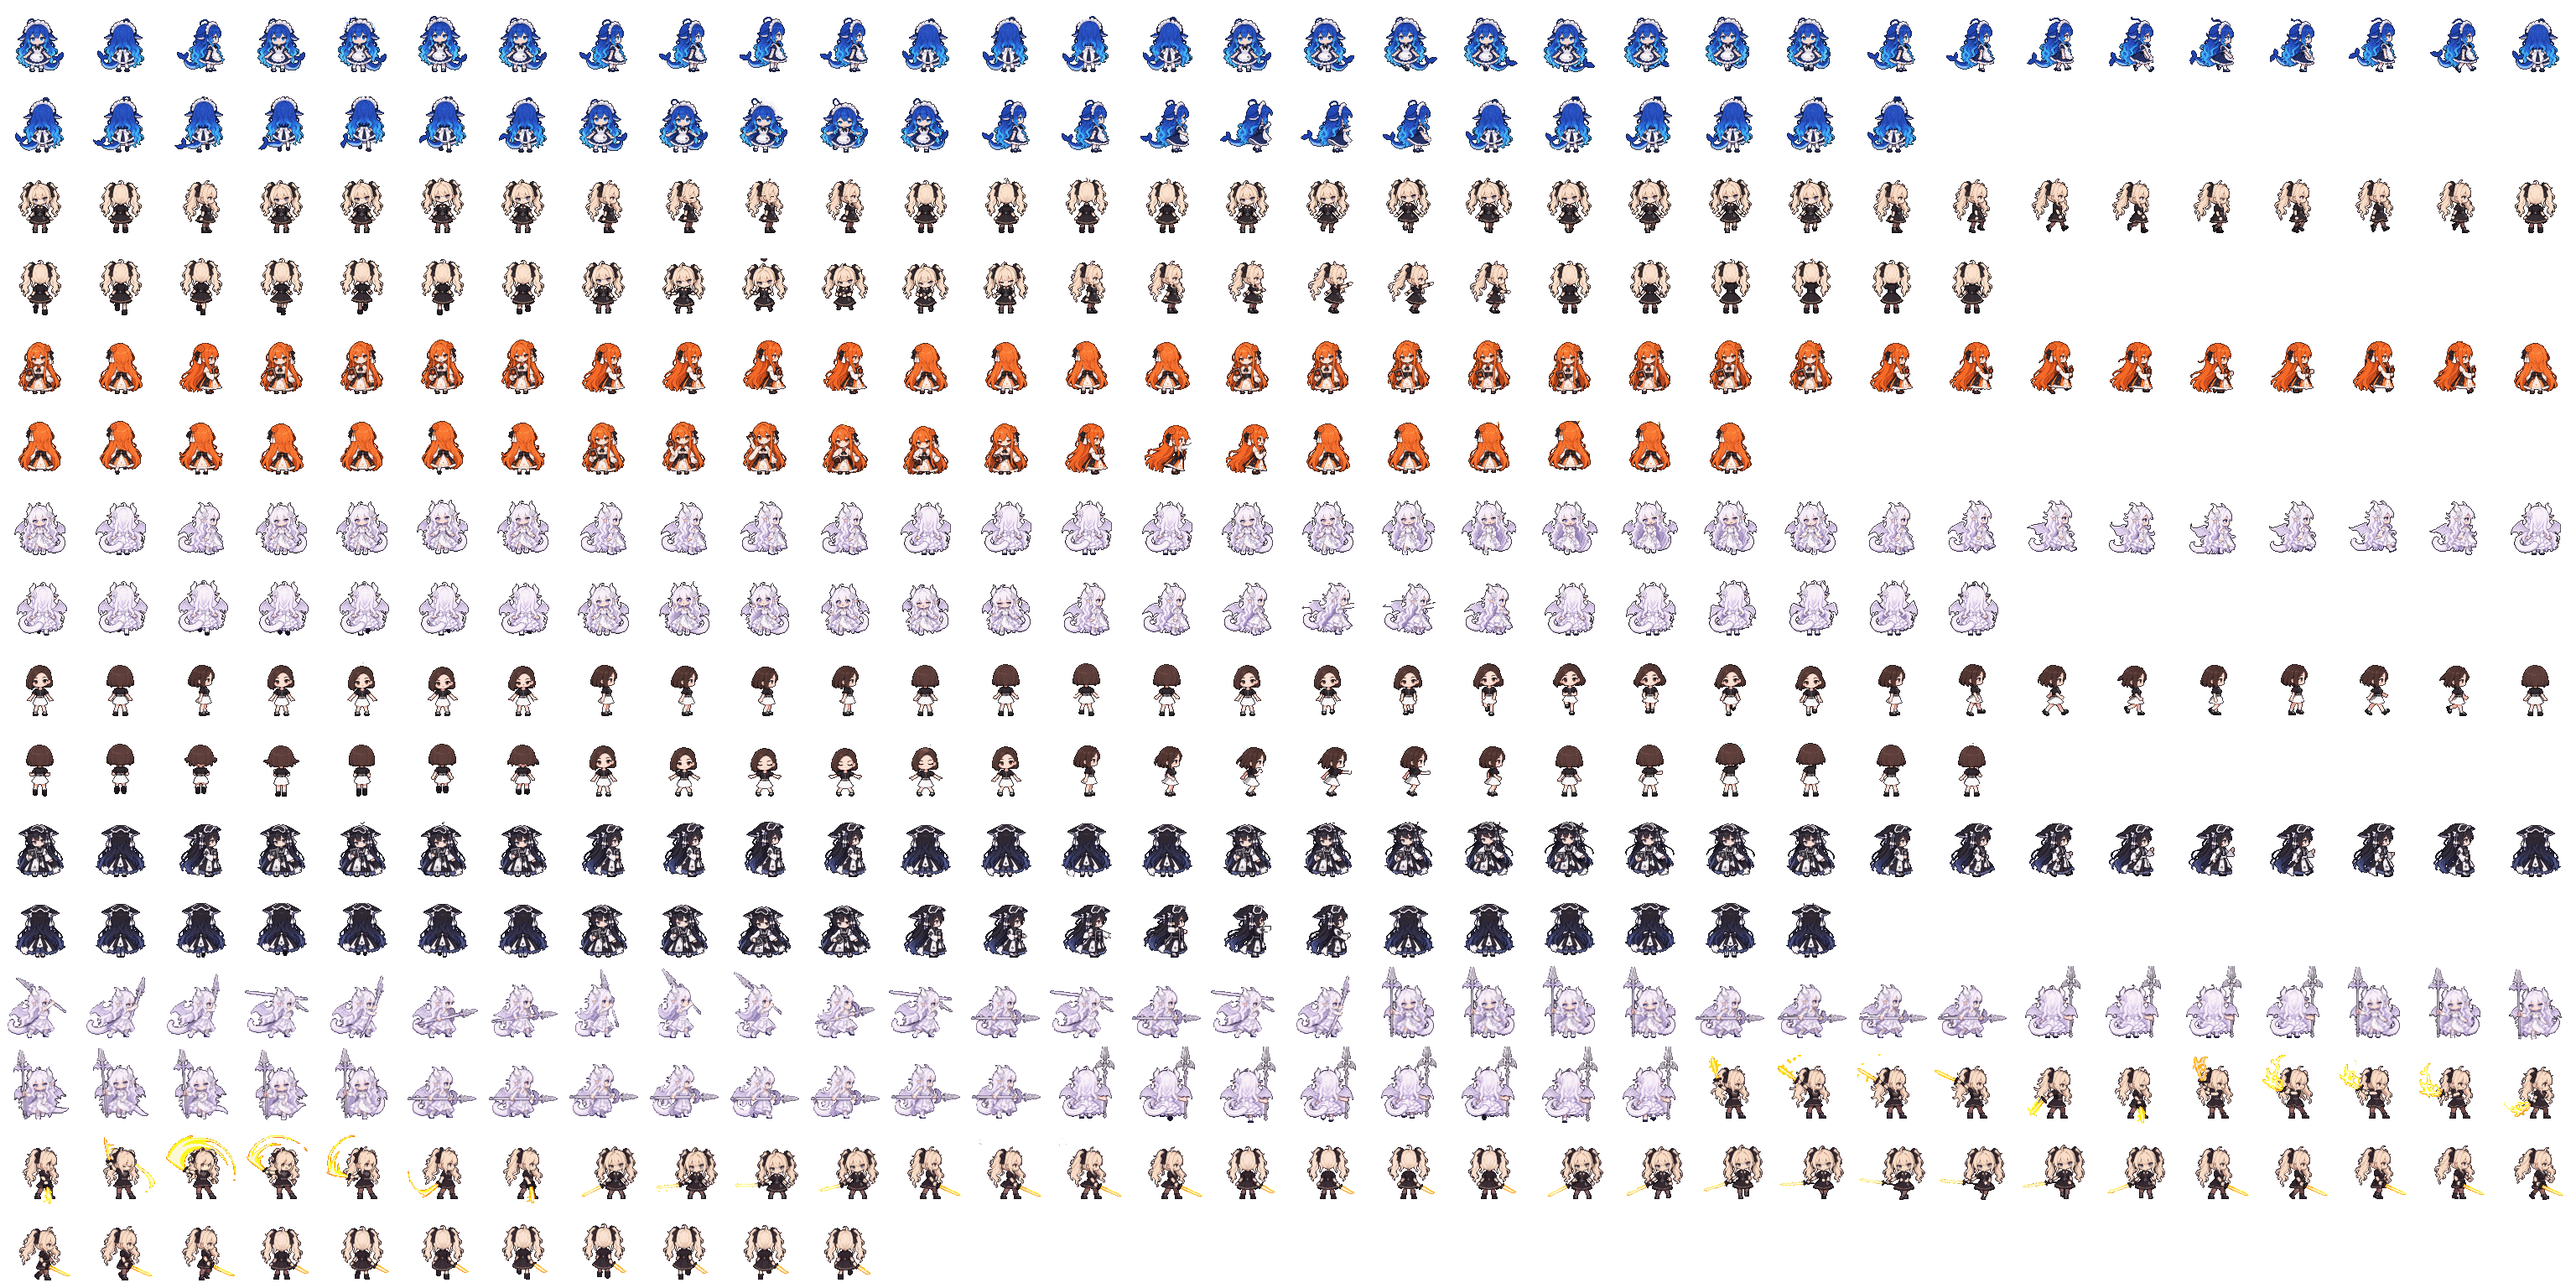
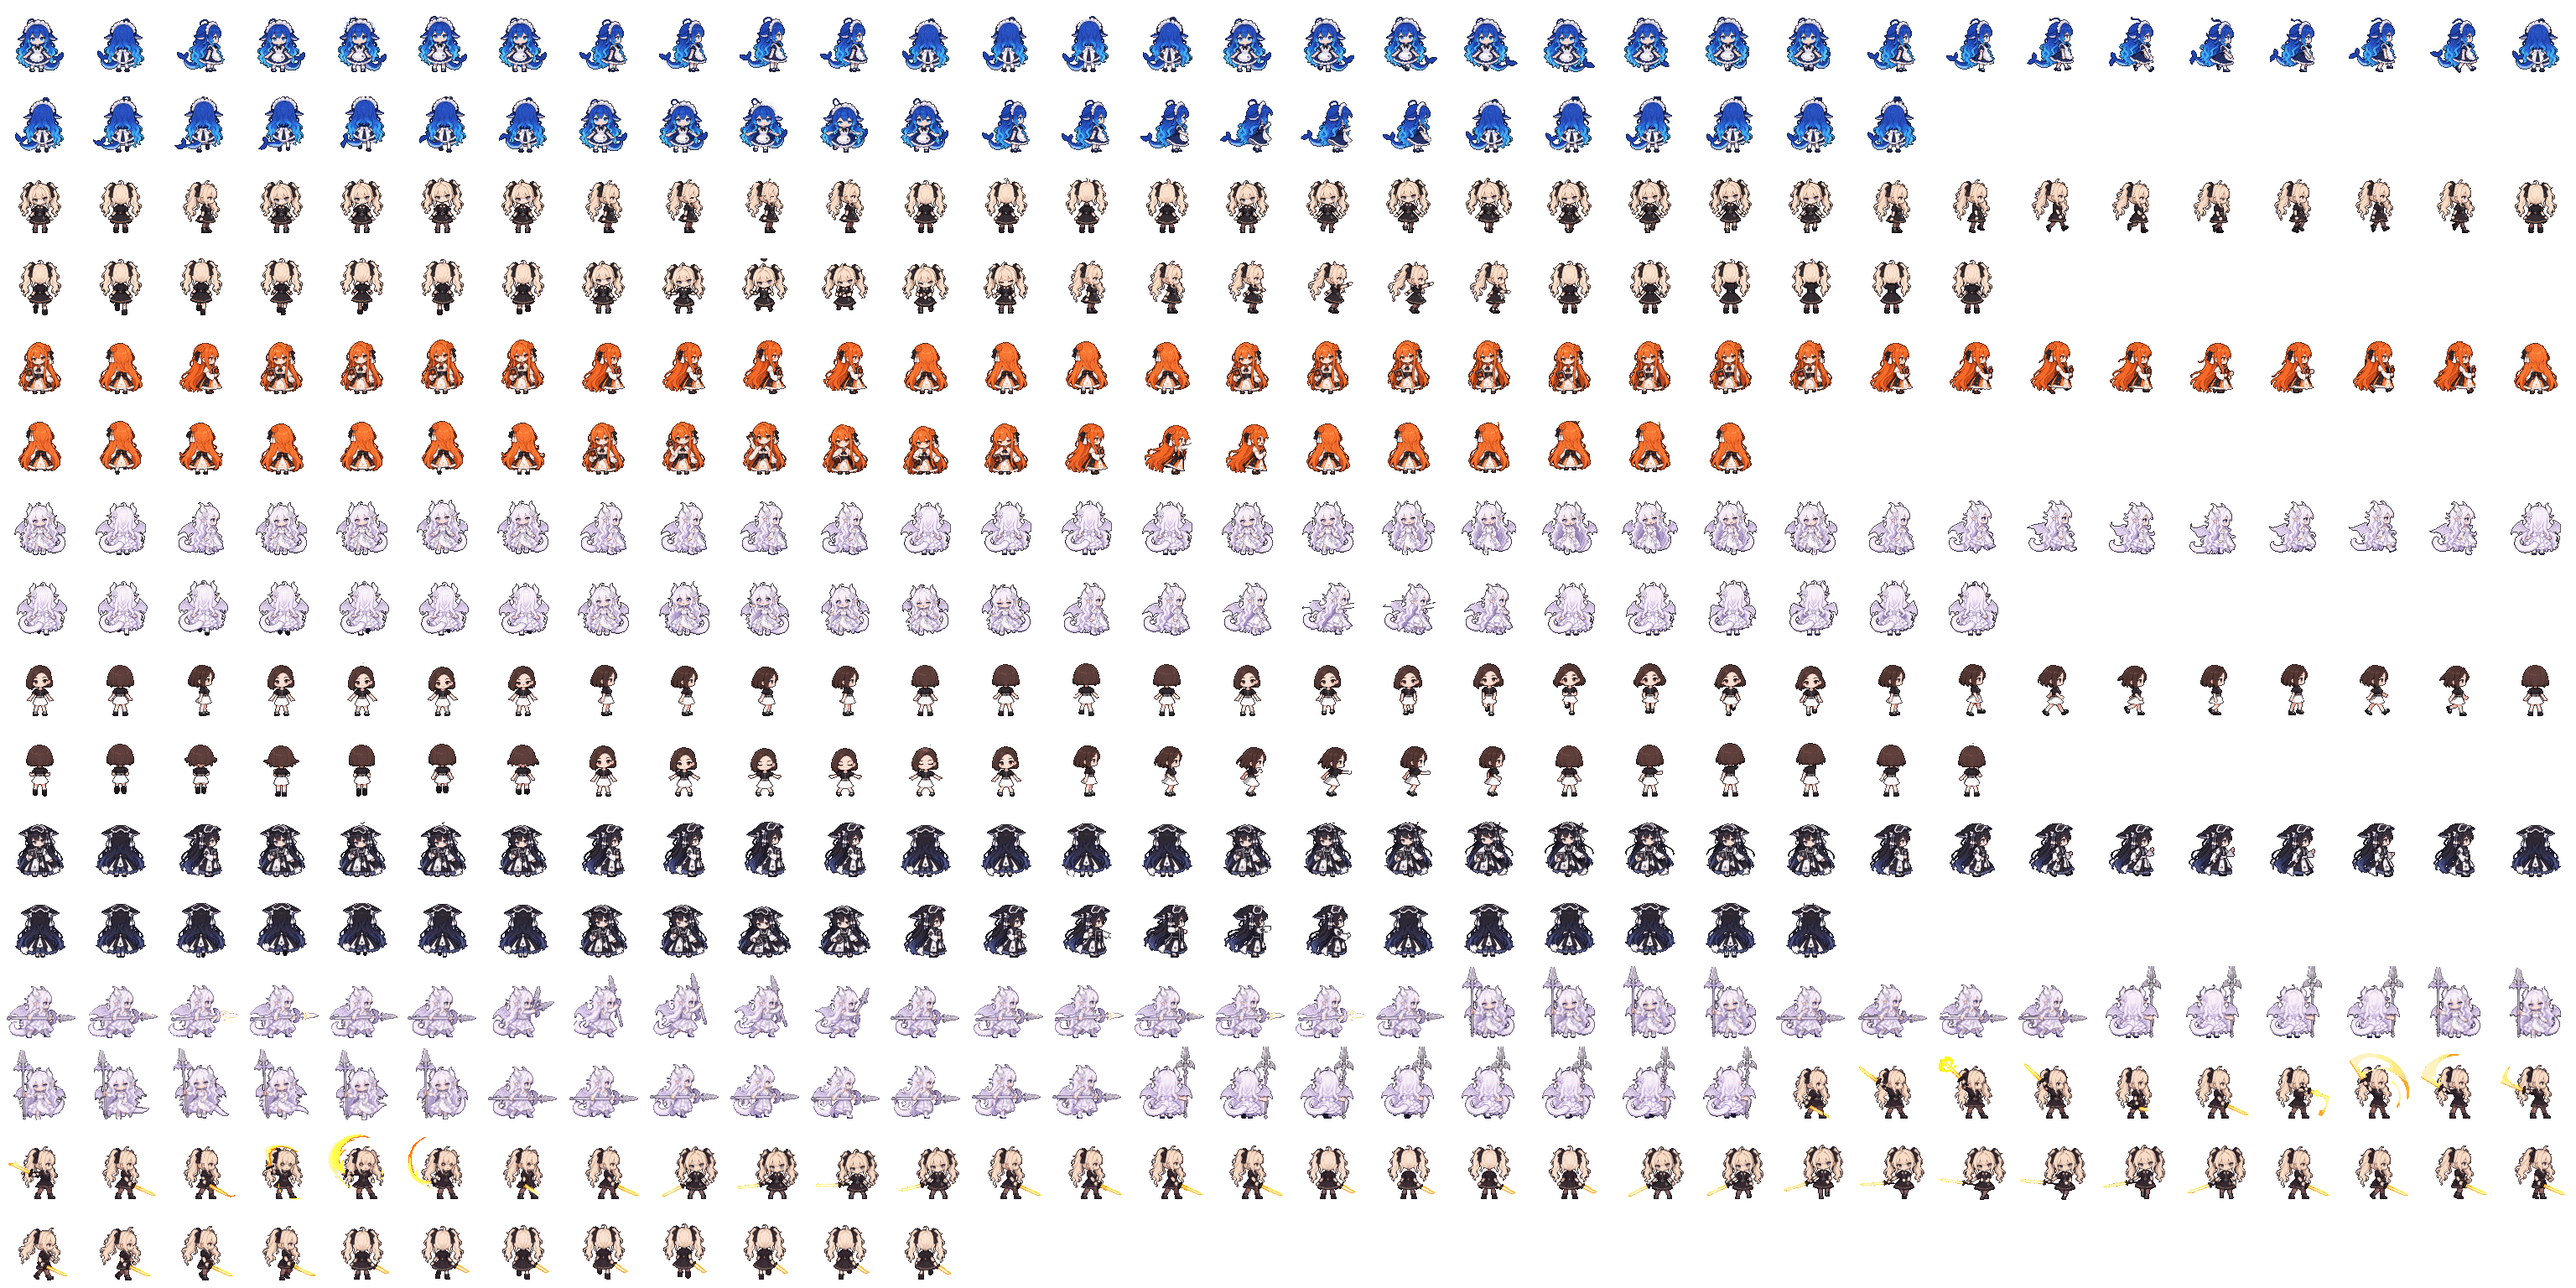
近战动画第三版：侧面三段连击逐帧质检后重抽定稿；持武器移动补齐；格洛克虚化图标
- 新增 tools/pixellab/melee_qa.py：每帧检查碎块、杂色、脚底、体量、武器在不在、帧间跳变，不通过换 seed 重抽
- 吉普缇：突刺改为枪身水平前刺（seed 89），横扫为上挑回扫（seed 53），连戳由前刺帧重排；背面跑步重抽（脚底稳定）
- 格洛克：斜斩（seed 67）、上挑斩（seed 103）、回旋斩（seed 41）；侧面待机重抽去掉杂点
- melee_swings.py 清理阈值提高到 30px，去掉脱离的拖尾碎片；格洛克小技能图标换成虚化穿墙

Claude-Session: https://claude.ai/code/session_01RfUcQPqX1PECm3kqWuT5kH

Changed region(s): [[0.0, 0.75, 1.0, 1.0], [0.1875, 0.9688, 0.2812, 1.0]]

diff --git a/tools/pixellab/melee_qa.py b/tools/pixellab/melee_qa.py
@@ -1,0 +1,76 @@
+# Frame QA for PixelLab melee clips (used before melee_swings.py; re-roll a seed until its clip passes): consistency with the weapon-holding ready pose.
+# usage: melee_qa.py [--base=BASE_VIEW.png] READY.png FRAME0.png FRAME1.png ...  -> per-frame metrics + PASS/FAIL with reasons
+# checks (per frame, after the same clean-up the atlas tool applies):
+#   specks   floating components < 30 px that are not the body/weapon (stray fragments)
+#   foreign  opaque pixels far (ΔE>20) from the ready pose's colours (stray colours / smears)
+#   feet     lowest body row vs the ready pose (±3 px)
+#   mass     opaque pixel count vs the ready pose (0.6–1.6)
+#   weapon   weapon-colour pixels (colours in the ready pose that the base sprite lacks) ≥ 35 % of the ready pose's
+#   jump     mask IoU with the previous frame ≥ 0.35 (no teleports / pops)
+import sys, json
+import numpy as np
+from PIL import Image
+from scipy import ndimage
+from skimage import color
+
+sys.path.insert(0, __import__('os').path.dirname(__import__('os').path.abspath(__file__)))
+from melee_swings import palette, clean
+
+
+def lab(px):
+    return color.rgb2lab(px[None] / 255)[0]
+
+
+def analyse(ready_path, frames, base_path=None):
+    ready = Image.open(ready_path).convert('RGBA')
+    pal_rgb, pal_lab = palette(ready)
+    ra = np.array(ready); rm = ra[..., 3] > 127
+    base_lab = palette(Image.open(base_path))[1] if base_path else None
+    # weapon colours: ready-pose colours not near any base-sprite colour
+    if base_lab is not None:
+        d = ((pal_lab[:, None] - base_lab[None]) ** 2).sum(-1).min(1)
+        wpn = pal_lab[d > 15 ** 2]
+    else:
+        wpn = pal_lab[:0]
+
+    def wcount(a, m):
+        if not len(wpn): return 0
+        L = lab(a[..., :3][m].astype(float))
+        return int((((L[:, None] - wpn[None]) ** 2).sum(-1).min(1) < 8 ** 2).sum())
+
+    # weapon by shape too (a white spear shares her colours): opaque pixels outside her dilated base silhouette
+    body = ndimage.binary_dilation(np.array(Image.open(base_path).convert('RGBA'))[..., 3] > 127, iterations=3) if base_path else np.zeros_like(rm)
+    def ocount(m): return int((m & ~body).sum())
+    r_mass, r_feet, r_w, r_o = rm.sum(), np.where(rm.any(1))[0].max(), wcount(ra, rm), ocount(rm)
+    out, prev = [], None
+    for f in frames:
+        im = clean(Image.open(f), pal_rgb, pal_lab); a = np.array(im); m = a[..., 3] > 127
+        labm, n = ndimage.label(m)
+        sizes = ndimage.sum(m, labm, range(1, n + 1)) if n else []
+        big = max(sizes) if n else 0
+        specks = int(sum(1 for s in sizes if s < 30 and s < big))
+        L = lab(a[..., :3][m].astype(float))
+        foreign = int((((L[:, None] - pal_lab[None]) ** 2).sum(-1).min(1) > 20 ** 2).sum()) if m.any() else 0
+        feet = int(np.where(m.any(1))[0].max()) if m.any() else -1
+        mass = m.sum() / max(1, r_mass)
+        w = max(wcount(a, m) / max(1, r_w) if r_w else 0, ocount(m) / max(1, r_o) if r_o else 0)
+        iou = (m & prev).sum() / max(1, (m | prev).sum()) if prev is not None else 1
+        why = []
+        if specks > 0: why.append(f'specks {specks}')
+        if foreign > 40: why.append(f'foreign {foreign}')
+        if abs(feet - r_feet) > 3: why.append(f'feet {feet - r_feet:+d}')
+        if not 0.6 <= mass <= 1.6: why.append(f'mass {mass:.2f}')
+        if (r_w or r_o) and w < 0.35: why.append(f'weapon {w:.2f}')
+        if iou < 0.35: why.append(f'jump {iou:.2f}')
+        out.append({'f': f.split('/')[-1], 'specks': specks, 'foreign': foreign, 'feet': feet - int(r_feet), 'mass': round(float(mass), 2), 'weapon': round(float(w), 2), 'iou': round(float(iou), 2), 'ok': not why, 'why': why})
+        prev = m
+    return out
+
+
+if __name__ == '__main__':
+    args = sys.argv[1:]
+    base = None
+    if args[0].startswith('--base='): base = args.pop(0)[7:]
+    res = analyse(args[0], args[1:], base)
+    for r in res: print(('PASS ' if r['ok'] else 'FAIL ') + r['f'], r['why'] or '', {k: r[k] for k in ('specks', 'foreign', 'feet', 'mass', 'weapon', 'iou')})
+    print('CLIP', 'PASS' if all(r['ok'] for r in res) else 'FAIL', sum(not r['ok'] for r in res), 'bad frames')

diff --git a/tools/pixellab/melee_swings.py b/tools/pixellab/melee_swings.py
@@ -7,7 +7,7 @@
 # The swings start from the weapon-holding ready pose (a 512 px edit-images-v2 still, brought to 96 px), so the
 # weapon is drawn by the model in every frame; nothing is overlaid in game.
 # Clean-up per frame: colours close to the girl's own palette snap onto it (steady colours between frames), the
-# weapon / light trail keep their drawn colours, floating specks under 4 px go. Idempotent: the melee rows are rebuilt.
+# weapon / light trail keep their drawn colours, floating specks and detached trail bits under 30 px go. Idempotent: the melee rows are rebuilt.
 # Run it again after tools/build_girls.py (which rebuilds the atlas without these rows).
 import json, os, sys
 import numpy as np
@@ -34,7 +34,7 @@ def clean(img, pal_rgb, pal_lab):
     lab, n = ndimage.label(m)
     if n:
         sizes = ndimage.sum(m, lab, range(1, n + 1))
-        m = np.isin(lab, [k + 1 for k, s in enumerate(sizes) if s >= 4])
+        m = np.isin(lab, [k + 1 for k, s in enumerate(sizes) if s >= 30])  # floating specks / detached trail bits go
     px = a[..., :3][m].astype(np.float64)
     L = color.rgb2lab(px[None] / 255)[0]
     d = ((L[:, None, :] - pal_lab[None]) ** 2).sum(-1)
